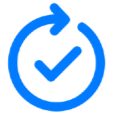
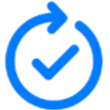
nav barre et header

Changed region(s): [[0.0273, 0.0818, 0.9545, 1.0], [0.2727, 0.3818, 0.7364, 0.7364], [0.4091, 0.0, 0.6273, 0.1909]]

diff --git a/stats.html b/stats.html
@@ -17,7 +17,7 @@
             <a href="index.html"><img src="icones/home.png" id="icone"></a>
             <a href="todolist.html"><img src="icones/tache.png" id="icone"></a>
             <a href="habitudes.html"><img src="icones/habitudes.png" id="icone"></a>
-            <a href="index.html"><img src="icones/sommeil.png" id="icone"></a>
+            <a href="index.html"><img src="icones/sommeil.png" id="iconesommeil"></a>
             <a href="timer_complet.html"><img src="icones/timer.png" id="icone"></a>
             <a href="stats.html"><img src="icones/stats.png" id="icone"></a>
             
@@ -60,12 +60,11 @@ a:active {
 }
 
 header{
-  background-color: aliceblue;
+  background-color: #f0f8ff;
   padding: 15px;
   margin-bottom: 20px;
-  border-bottom: #000000 1px solid;
+  border-bottom: 5px solid #f8f8f9;
 }
-
 footer {
   position: fixed;
   bottom: 0;
@@ -78,10 +77,15 @@ footer {
 }
 
 #icone{
-  width: 20px;
-  height: 20px;
+  width: 25px;
+  height: 25px;
 }
 
+#iconesommeil{
+   width: 30px;
+  height: 23px;
+  
+}
 #foot{
   padding: 12px;
   margin-left: 5px;

diff --git a/index.html b/index.html
@@ -36,7 +36,7 @@
             <a href="index.html"><img src="icones/home.png" id="icone"></a>
             <a href="todolist.html"><img src="icones/tache.png" id="icone"></a>
             <a href="habitudes.html"><img src="icones/habitudes.png" id="icone"></a>
-            <a href="index.html"><img src="icones/sommeil.png" id="icone"></a>
+            <a href="index.html"><img src="icones/sommeil.png" id="iconesommeil"></a>
             <a href="timer_complet.html"><img src="icones/timer.png" id="icone"></a>
             <a href="stats.html"><img src="icones/stats.png" id="icone"></a>
             
@@ -91,10 +91,7 @@ body{
 h2,h3{
     margin: 15px;
 }
-#icone{
-  width: 20px;
-  height: 20px;
-}
+
 a {
   text-decoration: none;
   color: #007bff;
@@ -133,10 +130,18 @@ footer {
   box-sizing: border-box;
 }
 
+#icone{
+  width: 25px;
+  height: 25px;
+}
 
-
+#iconesommeil{
+   width: 30px;
+  height: 23px;
+  
+}
 #foot{
-  padding: 12px;
+  padding: 9px;
   margin-left: 5px;
   margin-right: 5px;
   border: rgb(190, 218, 241) 3px solid;

diff --git a/timer_complet.html b/timer_complet.html
@@ -80,8 +80,14 @@ footer {
 
 
 #icone{
-  width: 20px;
-  height: 20px;
+  width: 25px;
+  height: 25px;
+}
+
+#iconesommeil{
+   width: 30px;
+  height: 23px;
+  
 }
 #foot{
   padding: 12px;
@@ -153,7 +159,7 @@ header{
             <a href="index.html"><img src="icones/home.png" id="icone"></a>
             <a href="todolist.html"><img src="icones/tache.png" id="icone"></a>
             <a href="habitudes.html"><img src="icones/habitudes.png" id="icone"></a>
-            <a href="index.html"><img src="icones/sommeil.png" id="icone"></a>
+            <a href="index.html"><img src="icones/sommeil.png" id="iconesommeil"></a>
             <a href="timer_complet.html"><img src="icones/timer.png" id="icone"></a>
             <a href="stats.html"><img src="icones/stats.png" id="icone"></a>
             

diff --git a/habitudes.html b/habitudes.html
@@ -410,7 +410,7 @@ footer {
             <a href="index.html"><img src="icones/home.png" id="icone"></a>
             <a href="todolist.html"><img src="icones/tache.png" id="icone"></a>
             <a href="habitudes.html"><img src="icones/habitudes.png" id="icone"></a>
-            <a href="index.html"><img src="icones/sommeil.png" id="icone"></a>
+            <a href="index.html"><img src="icones/sommeil.png" id="iconesommeil"></a>
             <a href="timer_complet.html"><img src="icones/timer.png" id="icone"></a>
             <a href="stats.html"><img src="icones/stats.png" id="icone"></a>
             
@@ -477,8 +477,14 @@ footer {
 }
 
 #icone{
-  width: 20px;
-  height: 20px;
+  width: 25px;
+  height: 25px;
+}
+
+#iconesommeil{
+   width: 30px;
+  height: 23px;
+  
 }
 
 #foot{

diff --git a/todolist.html b/todolist.html
@@ -49,7 +49,7 @@
             <a href="index.html"><img src="icones/home.png" id="icone"></a>
             <a href="todolist.html"><img src="icones/tache.png" id="icone"></a>
             <a href="habitudes.html"><img src="icones/habitudes.png" id="icone"></a>
-            <a href="index.html"><img src="icones/sommeil.png" id="icone"></a>
+            <a href="index.html"><img src="icones/sommeil.png" id="iconesommeil"></a>
             <a href="timer_complet.html"><img src="icones/timer.png" id="icone"></a>
             <a href="stats.html"><img src="icones/stats.png" id="icone"></a>
             

diff --git a/style.css b/style.css
@@ -145,10 +145,15 @@ footer {
 }
 
 #icone{
-  width: 20px;
-  height: 20px;
+  width: 25px;
+  height: 25px;
 }
 
+#iconesommeil{
+   width: 30px;
+  height: 23px;
+  
+}
 #foot{
   padding: 12px;
   margin-left: 5px;
